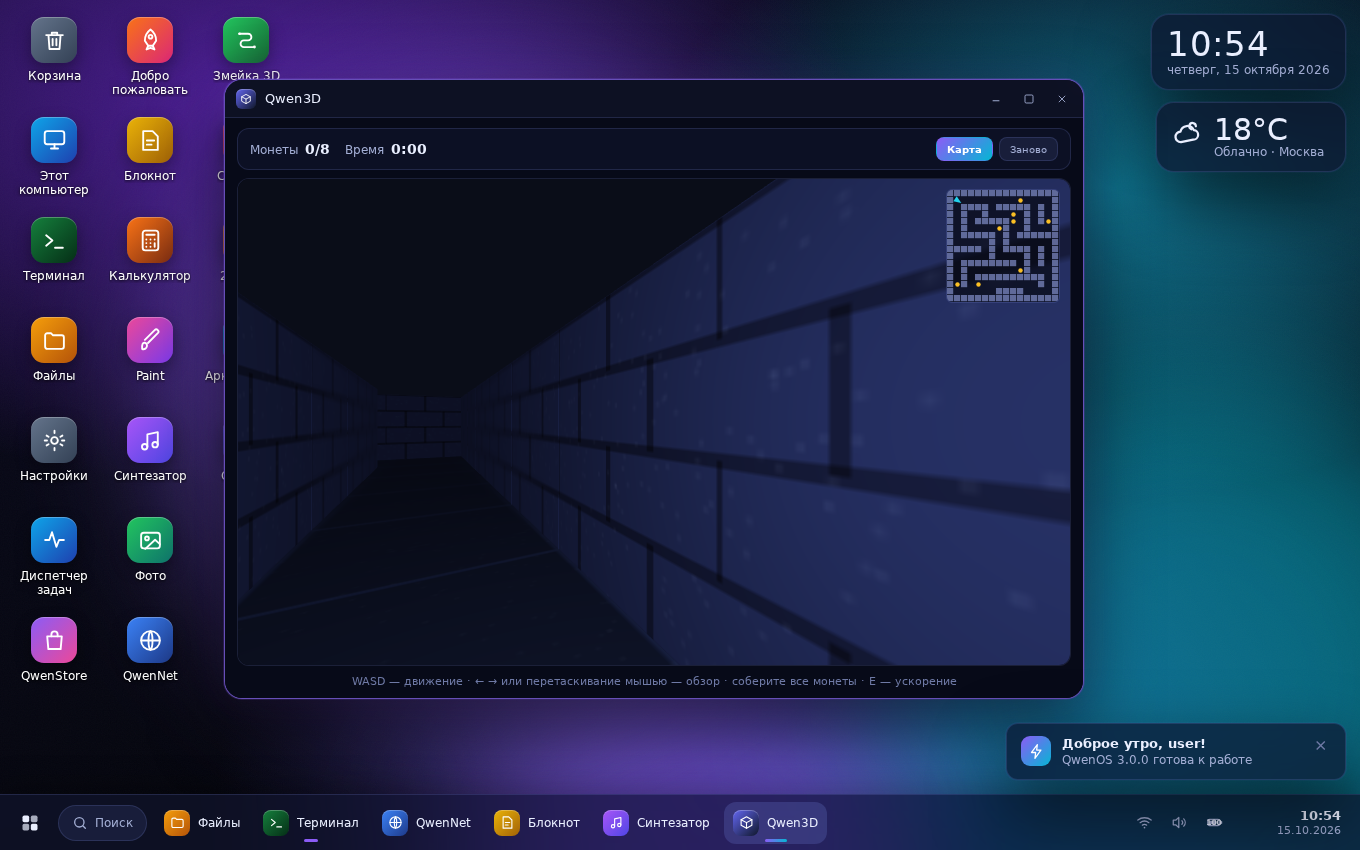
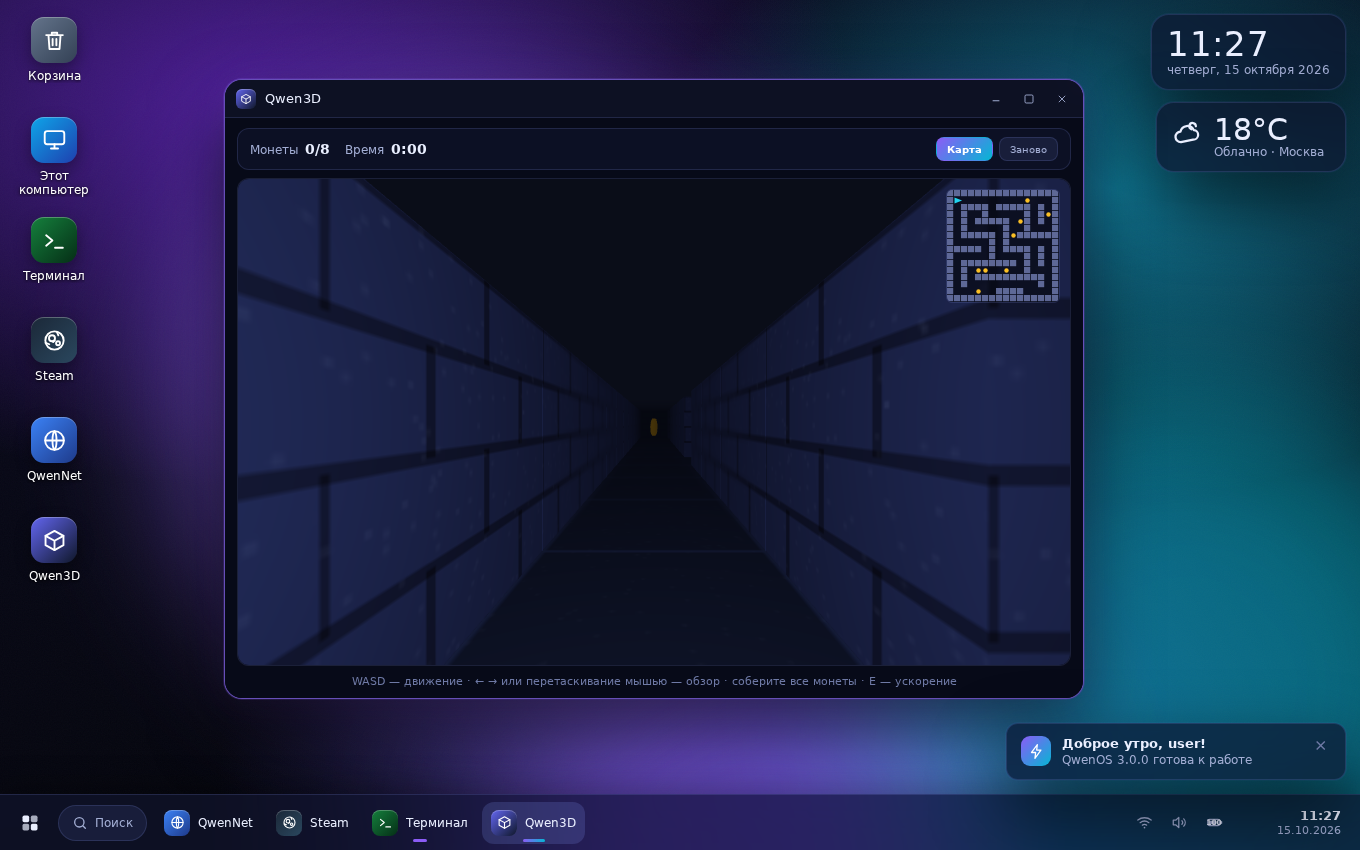
QwenOS 3.2.1: самоисцеление рассинхрона кэша + защита Steam от старых ассетов
- meta qwenos-build в index.html: при несовпадении сборки скриптов и оболочки
  система unregister'ит древний service worker и перезагружается начисто
  (лечит состояние «старый core.js + новые файлы», из-за которого падал Steam)
- popup «Доступны обновления» показывается один раз за сеанс на сборку —
  никаких бесконечных уведомлений
- Steam при рассинхроне кэша показывает кнопку «Сбросить кэш и перезагрузить»
  вместо падения mount failed
- Сборка 3023, SW v18

diff --git a/docs/js/boot.js b/docs/js/boot.js
@@ -303,7 +303,37 @@
   const customWall = OS.store.get('wall.custom', null);
   if (customWall) S.set('wallpaperReset', false, true);
 
+  /* Если index.html свежий (навигация всегда из сети), а скрипты приехали из
+     старого кэша service worker — версии не совпадут. Убиваем древний SW и
+     перезагружаемся начисто, чтобы рассинхрон не мог жить вечно. */
+  function healStaleAssets() {
+    const meta = document.querySelector('meta[name="qwenos-build"]');
+    const want = meta && String(meta.getAttribute('content') || '').trim();
+    if (!want) return;
+    if (want === String(OS.buildNumber)) {
+      try { sessionStorage.removeItem('qwenos.healed'); } catch (e) { /* noop */ }
+      return;
+    }
+    let flag = '';
+    try { flag = sessionStorage.getItem('qwenos.healed') || ''; } catch (e) { /* noop */ }
+    if (flag === want) {
+      console.warn('[QwenOS] кэш рассинхронизирован даже после сброса SW: обновите принудительно (Ctrl+Shift+R)');
+      return;
+    }
+    try { sessionStorage.setItem('qwenos.healed', want); } catch (e) { /* noop */ }
+    console.warn('[QwenOS] обнаружен устаревший кэш (' + OS.buildNumber + ' != ' + want + ') — сброс service worker и перезагрузка');
+    const done = () => location.reload();
+    try {
+      if (navigator.serviceWorker) {
+        navigator.serviceWorker.getRegistration().then((r) => (r ? r.unregister() : null)).then(done, done);
+        return;
+      }
+    } catch (e) { /* noop */ }
+    done();
+  }
+
   document.addEventListener('DOMContentLoaded', async () => {
+    healStaleAssets();
     OS.$('#lock-btn').addEventListener('click', () => {
       const ok = Power.unlock(OS.$('#lock-pass').value);
       if (ok) enterDesktopOnce();

diff --git a/docs/js/apps/steam.js b/docs/js/apps/steam.js
@@ -16,6 +16,18 @@
     keywords: 'steam стим магазин игр библиотека библиотека игр launcher store',
     width: 960, height: 640, minWidth: 480, minHeight: 400,
     mount(win, api) {
+      if (!OS.coins) {
+        win.body.innerHTML = '<div class="gm-fallback" style="height:100%">' + OS.svg('steam', 40) +
+          '<p><b>Кэш браузера рассинхронизирован</b></p>' +
+          '<p class="dim">Часть файлов QwenOS приехала из старого кэша service worker.<br>Нажмите кнопку — система сбросит кэш и перезагрузится.</p>' +
+          '<button class="btn btn-accent btn-sm" data-a="heal">Сбросить кэш и перезагрузить</button></div>';
+        win.body.querySelector('[data-a="heal"]').onclick = () => {
+          const done = () => location.reload();
+          if (navigator.serviceWorker) navigator.serviceWorker.getRegistration().then((r) => (r ? r.unregister() : null)).then(done, done);
+          else done();
+        };
+        return;
+      }
       let tab = 'store';
       win.body.innerHTML =
         '<div class="stm">' +

diff --git a/docs/index.html b/docs/index.html
@@ -6,6 +6,7 @@
 <title>QwenOS 3.0 — операционная система в браузере</title>
 <meta name="description" content="QwenOS — виртуальная операционная система, работающая прямо во вкладке браузера: окна, терминал, файловая система, игры и синтезатор музыки.">
 <meta name="theme-color" content="#0b0e1a">
+<meta name="qwenos-build" content="3023">
 <meta name="mobile-web-app-capable" content="yes">
 <meta name="apple-mobile-web-app-status-bar-style" content="black-translucent">
 <link rel="manifest" href="manifest.webmanifest">

diff --git a/docs/js/updater.js b/docs/js/updater.js
@@ -59,7 +59,12 @@
         this.remote = r;
         if ((r.build || 0) > this.current.build) {
           this.pending = r;
-          this.showPopup(r);
+          let shownFor = '';
+          try { shownFor = sessionStorage.getItem('qwenos.update.shown') || ''; } catch (e) { /* noop */ }
+          if (!opts.silent || shownFor !== String(r.build)) {
+            try { sessionStorage.setItem('qwenos.update.shown', String(r.build)); } catch (e) { /* noop */ }
+            this.showPopup(r);
+          }
           return r;
         }
         if (!opts.silent) {

diff --git a/docs/sw.js b/docs/sw.js
@@ -3,7 +3,7 @@
    Стратегия: network-first для документов, cache-first для ассетов.
    Позволяет системе работать полностью офлайн (PWA).
    ========================================================================== */
-const VERSION = 'qwenos-sw-v3.0.0-17';
+const VERSION = 'qwenos-sw-v3.0.0-18';
 const CORE = [
   './',
   './index.html',

diff --git a/docs/js/core.js b/docs/js/core.js
@@ -10,7 +10,7 @@
     codename: 'Aurora',
     kernel: 'qwen-kernel 6.1.0-web',
     build: new Date().toISOString().slice(0, 10),
-    buildNumber: 3022,
+    buildNumber: 3023,
     startedAt: Date.now()
   };
   global.OS = OS;
